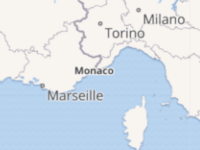
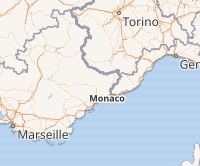
updated thumbnail

diff --git a/src/controls/SimpleLayersControl/images.js b/src/controls/SimpleLayersControl/images.js
@@ -13,8 +13,6 @@ import bingAerial from './img/bingAerial.png';
 import cartoBaseDarkLabeled from './img/cartoBaseDarkLabeled.png';
 import osm from './img/osm.png';
 
-// TO DO create updated thumbnail for wikimedia
-
 export default {
 	bing_Aerial,
 	cartoDB_DarkMatter,
